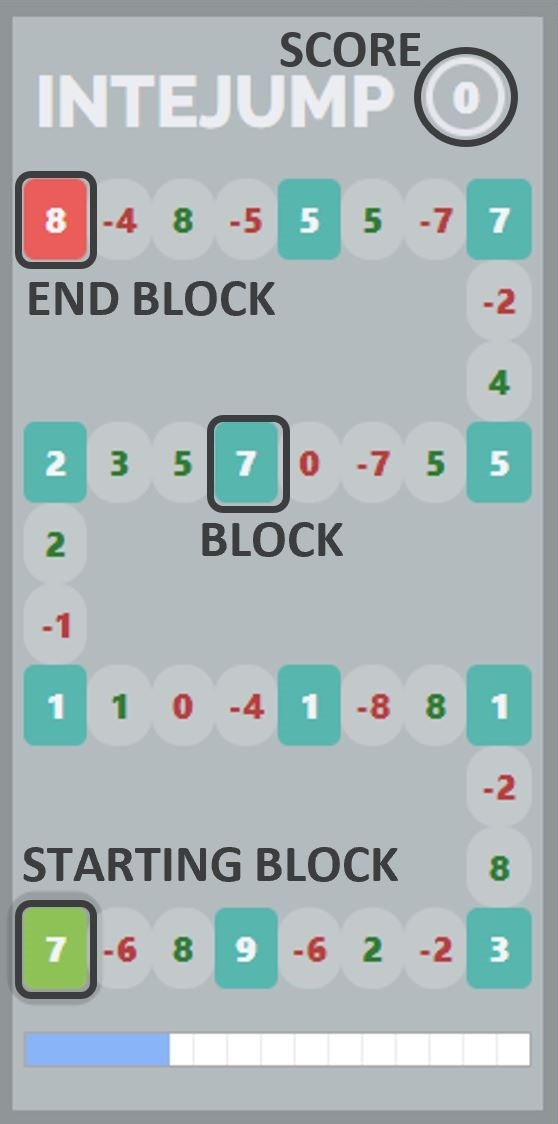
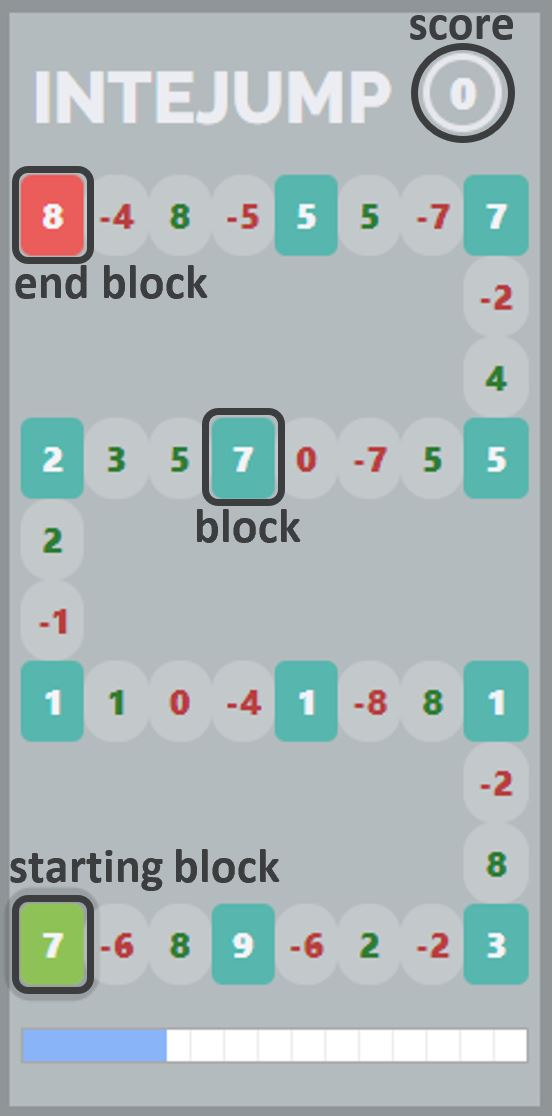
tweaked instructions, started readme

diff --git a/index.html b/index.html
@@ -15,10 +15,10 @@
 <main>
 
 <div class='startScreen' id='startScreen0'>intejump<button class='instructionsButton' id='zeroStartButton'>instructions</button><button class='instructionsButton' id='skipStartButton'>skip</button><div id="spanDiv"><span class='startScreenSpan'>best:</span><span class='startScreenSpan' id='highScore'>0<span></span></div></div>
-<div class='startScreen' id='startScreen1'><img src="img/first_blocks_and_score.JPG" alt="instructions">use simple addition & subtraction to match the value of each block<button class='instructionsButton' id='firstStartButton'>okay</button></div>
-<div class='startScreen' id='startScreen2'><img src="img/second_current_value_goal_value.JPG" alt="instructions">The current value is green, the next block is the goal value<button class='instructionsButton' id='secondStartButton'>okay</button></div>
-<div class='startScreen' id='startScreen3'><img src="img/left_right_instructions.JPG" alt="instructions">left side will single jump, right side will double jump<button class='instructionsButton' id='thirdStartButton'>okay</button></div>
-<div class='startScreen' id='startScreen4'><img src="img/fourth_singe_double_jump.JPG" alt="instructions">a double jump skips adding or subtracting the next value<button class='instructionsButton' id='fourthStartButton'>okay</button></div>
+<div class='startScreen' id='startScreen1'><img src="img/left_right_instructions.JPG" alt="instructions">left side will single jump, right side will double jump<button class='instructionsButton' id='thirdStartButton'>okay</button></div>
+<div class='startScreen' id='startScreen2'><img src="img/fourth_singe_double_jump.JPG" alt="instructions">a double jump skips adding or subtracting the next value<button class='instructionsButton' id='fourthStartButton'>okay</button></div>
+<div class='startScreen' id='startScreen3'><img src="img/second_current_value_goal_value.JPG" alt="instructions">The current value is green, the next block is the goal value<button class='instructionsButton' id='secondStartButton'>okay</button></div>
+<div class='startScreen' id='startScreen4'><img src="img/first_blocks_and_score.JPG" alt="instructions">use simple addition & subtraction to match the value of each block<button class='instructionsButton' id='firstStartButton'>okay</button></div>
 <div class='startScreen' id='startScreen5'><img src="img/fifth_ways_to_lose.JPG" id='fifthImage' alt="instructions">three ways to lose: exceeding -10, exceeding +10, or not matching a block<button class='instructionsButton' id='fifthStartButton'>start</button></div>
 
 <header>intejump</header>

diff --git a/css/styles.css b/css/styles.css
@@ -9,7 +9,7 @@ main {
     width: 375px;
     height: 675px;
     margin: 0 auto;
-    grid-template-rows:     5fr 10fr 5fr 10fr 10fr 10fr 10fr 10fr 10fr 10fr 10fr 10fr 10fr 15fr;
+    grid-template-rows:     6fr 10fr 6fr 10fr 10fr 10fr 10fr 10fr 10fr 10fr 10fr 10fr 10fr 15fr;
     grid-template-columns:  2fr 10fr 10fr 10fr 10fr 10fr 10fr 10fr 10fr 2fr 0fr;
     grid-template-areas:    "r00c1  header  header  header  header  header  header  r00c8   r00c9   r00c10  r00c11"
                             "r0c1   header  header  header  header  header  header  score   score   r0c10   r0c11"
@@ -26,7 +26,7 @@ main {
                             "r11c1  r11c2   r11c3   r11c4   r11c5   r11c6   r11c7   r11c8   r11c9   r11c10  r11c11"
                             "r12c1  timerDiv   timerDiv   timerDiv   timerDiv   timerDiv   timerDiv   timerDiv   timerDiv   r12c10  r12c11";
     transition: background-color 140s;
-    background-color: rgba(218, 224, 226, 0.9);
+    background-color: rgba(237, 240, 241, 0.9);
     border: 10px solid rgba(0, 0, 0, 0.2);
 }
 
@@ -44,14 +44,14 @@ main {
     color: rgba(17, 17, 17, 0.9);
     top: 0; left: 0; right: 0;
     padding: 1.1rem;
-    background-color:  rgba(218, 224, 226, 0.9);
+    background-color:  rgba(237, 240, 241, 0.9);
     width: 375px;
-    height: 750px;
+    height: 700px;
     border: 10px solid rgba(0, 0, 0, 0.2);
 }
 
 img {
-    width: 280px;
+    width: 260px;
     height: auto;
     border: 5px solid rgba(0, 0, 0, 0.2);
     margin-bottom: 0.1rem; 

diff --git a/js/app.js b/js/app.js
@@ -545,7 +545,7 @@ function updateYouLost() {
     document.getElementById('singleClick').style.display = 'none';
     document.getElementById('doubleClick').style.display = 'none';
     document.querySelector('main').style.transition = 'auto';
-    document.querySelector('main').style.backgroundColor = 'rgba(218, 224, 226, 0.9)';
+    document.querySelector('main').style.backgroundColor = 'rgba(237, 240, 241, 0.9)';
 }
 
 function updateYouWon() {
